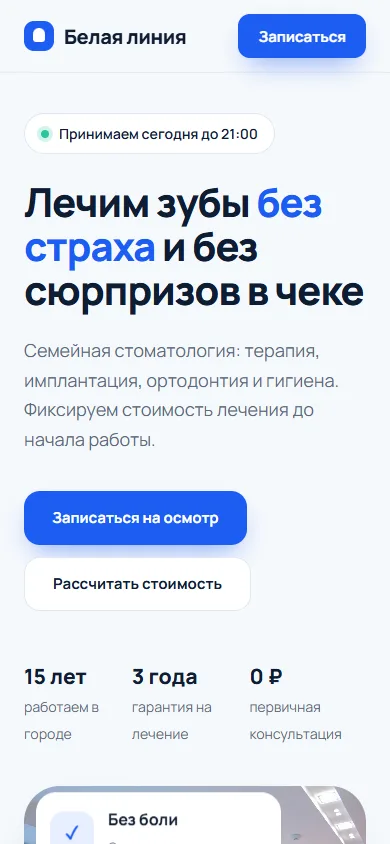
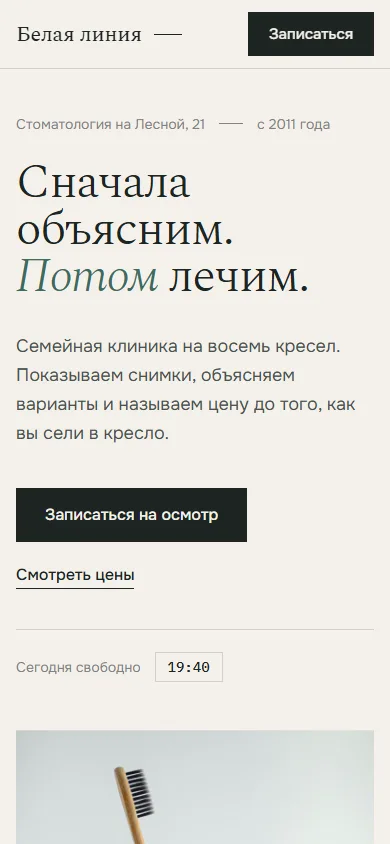
Websites section: coverflow instead of grid; refresh dental concept

diff --git a/src/components/SitesShowcase.tsx b/src/components/SitesShowcase.tsx
@@ -1,9 +1,28 @@
+import { useRef, useState, type CSSProperties, type KeyboardEvent, type PointerEvent } from 'react';
 import { siteRepo, sites, siteUrl } from '../data/sites';
 import { useLang } from '../i18n';
 import { Icon } from './Icon';
 
+/** Coverflow: the chosen site sits in the centre, neighbours fan out in 3D. */
 export function SitesShowcase() {
   const { t } = useLang();
+  const [i, setI] = useState(Math.floor(sites.length / 2) - 1);
+  const swipeX = useRef<number | null>(null);
+  const go = (k: number) => setI(Math.min(sites.length - 1, Math.max(0, k)));
+  const s = sites[i];
+
+  const onKey = (e: KeyboardEvent) => {
+    if (e.key === 'ArrowLeft') { e.preventDefault(); go(i - 1); }
+    if (e.key === 'ArrowRight') { e.preventDefault(); go(i + 1); }
+  };
+  const onDown = (e: PointerEvent) => { swipeX.current = e.clientX; };
+  const onUp = (e: PointerEvent) => {
+    if (swipeX.current === null) return;
+    const dx = e.clientX - swipeX.current;
+    swipeX.current = null;
+    if (Math.abs(dx) > 40) go(i + (dx < 0 ? 1 : -1));
+  };
+
   return (
     <section className="section wrap" id="sites">
       <div className="section-head"><h2>{t({ ru: 'Сайты', en: 'Websites' })}</h2></div>
@@ -13,30 +32,50 @@ export function SitesShowcase() {
           en: 'Concepts for fictional businesses, each with its own style, fonts and motion. All responsive — open them and see for yourself.',
         })}
       </p>
-      <div className="sites">
-        {sites.map(s => (
-          <article className="site" key={s.id}>
-            <a className="site-cover" href={siteUrl(s.id)} target="_blank" rel="noreferrer" aria-label={`${s.name} — ${t({ ru: 'открыть сайт', en: 'open website' })}`}>
-              <img src={`./sites/${s.id}.webp`} alt="" loading="lazy" />
-              <span className="site-phone"><img src={`./sites/${s.id}-m.webp`} alt="" loading="lazy" /></span>
-            </a>
-            <div className="site-info">
-              <div className="site-title">
-                <h3>{s.name}</h3>
-                <span className="mono muted">{t(s.kind)} · {t({ ru: 'концепт', en: 'concept' })}</span>
-              </div>
-              <p className="muted">{t(s.about)}</p>
-              <div className="site-meta mono">
-                <span className="swatches">{s.palette.map(c => <i key={c} style={{ background: c }} title={c} />)}</span>
-                <span>{s.fonts}</span>
-              </div>
-              <div className="work-links">
-                <a className="link" href={siteUrl(s.id)} target="_blank" rel="noreferrer">{t({ ru: 'Открыть сайт', en: 'Open website' })} <Icon name="arrowUpRight" size={14} /></a>
-                <a className="link" href={siteRepo(s.id)} target="_blank" rel="noreferrer">{t({ ru: 'Код', en: 'Source' })} <Icon name="arrowUpRight" size={14} /></a>
-              </div>
-            </div>
-          </article>
-        ))}
+
+      <div className="flow" tabIndex={0} onKeyDown={onKey} onPointerDown={onDown} onPointerUp={onUp} onPointerCancel={() => { swipeX.current = null; }}
+        aria-roledescription={t({ ru: 'карусель', en: 'carousel' })} aria-label={t({ ru: 'Сайты', en: 'Websites' })}>
+        <div className="flow-stage">
+          {sites.map((x, k) => {
+            const d = k - i;
+            const style = { '--d': d, '--a': Math.abs(d) } as CSSProperties;
+            return d === 0 ? (
+              <a key={x.id} className="flow-card on" style={style} href={siteUrl(x.id)} target="_blank" rel="noreferrer" draggable={false}
+                aria-label={`${x.name} — ${t({ ru: 'открыть сайт', en: 'open website' })}`}>
+                <img src={`./sites/${x.id}.webp`} alt="" draggable={false} />
+                <span className="flow-phone"><img src={`./sites/${x.id}-m.webp`} alt="" draggable={false} /></span>
+              </a>
+            ) : (
+              <button key={x.id} className="flow-card" style={style} onClick={() => go(k)} aria-label={x.name} tabIndex={-1} hidden={Math.abs(d) > 3}>
+                <img src={`./sites/${x.id}.webp`} alt="" loading="lazy" draggable={false} />
+              </button>
+            );
+          })}
+        </div>
+
+        <div className="flow-info" key={s.id}>
+          <div className="site-title">
+            <h3>{s.name}</h3>
+            <span className="mono muted">{t(s.kind)} · {t({ ru: 'концепт', en: 'concept' })}</span>
+          </div>
+          <p className="muted">{t(s.about)}</p>
+          <div className="site-meta mono">
+            <span className="swatches">{s.palette.map(c => <i key={c} style={{ background: c }} title={c} />)}</span>
+            <span>{s.fonts}</span>
+          </div>
+          <div className="work-links">
+            <a className="link" href={siteUrl(s.id)} target="_blank" rel="noreferrer">{t({ ru: 'Открыть сайт', en: 'Open website' })} <Icon name="arrowUpRight" size={14} /></a>
+            <a className="link" href={siteRepo(s.id)} target="_blank" rel="noreferrer">{t({ ru: 'Код', en: 'Source' })} <Icon name="arrowUpRight" size={14} /></a>
+          </div>
+        </div>
+
+        <div className="flow-nav">
+          <button onClick={() => go(i - 1)} disabled={i === 0} aria-label={t({ ru: 'Предыдущий', en: 'Previous' })}>←</button>
+          <div className="flow-dots">
+            {sites.map((x, k) => <button key={x.id} className={k === i ? 'on' : ''} onClick={() => go(k)} aria-label={x.name} />)}
+          </div>
+          <button onClick={() => go(i + 1)} disabled={i === sites.length - 1} aria-label={t({ ru: 'Следующий', en: 'Next' })}>→</button>
+        </div>
       </div>
     </section>
   );

diff --git a/src/styles.css b/src/styles.css
@@ -121,20 +121,34 @@ picture { display: contents; }
 
 /* ---------- concept websites ---------- */
 .sites-lead { margin: 16px 0 0; }
-.sites { display: grid; grid-template-columns: repeat(3, 1fr); gap: 48px 32px; padding-top: 40px; }
-.site-cover { position: relative; display: block; aspect-ratio: 16 / 10; margin-bottom: 26px; border: 1px solid var(--line); border-radius: 8px; overflow: visible; background: var(--panel); transition: border-color .15s; }
-.site-cover:hover { border-color: #fff; }
-.site-cover > img { width: 100%; height: 100%; object-fit: cover; object-position: top; border-radius: 7px; }
-.site-phone { position: absolute; right: 14px; bottom: -18px; width: 24%; aspect-ratio: 390 / 844; padding: 4px; border-radius: 14px; background: #000; border: 1px solid var(--line-strong); box-shadow: 0 16px 32px rgba(0, 0, 0, .6); transition: transform .3s; }
-.site-phone img { width: 100%; height: 100%; object-fit: cover; object-position: top; border-radius: 10px; }
-.site-cover:hover .site-phone { transform: translateY(-6px); }
+/* coverflow */
+.flow { position: relative; padding-top: 40px; outline: none; touch-action: pan-y; user-select: none; }
+.flow { --card: min(560px, 70vw); --step: calc(var(--card) * .34); }
+.flow-stage { position: relative; height: calc(var(--card) * .625 + 40px); perspective: 1400px; margin-inline: calc(50% - 50vw); overflow: hidden; mask-image: linear-gradient(90deg, transparent, #000 12%, #000 88%, transparent); }
+.flow-card { position: absolute; top: 14px; left: 50%; width: var(--card); aspect-ratio: 16 / 10; padding: 0; border: 1px solid var(--line-strong); border-radius: 10px; background: #000; cursor: pointer; transform: translateX(calc(-50% + var(--d) * var(--step))) translateZ(calc(var(--a) * -220px)) rotateY(calc(var(--d) * -38deg)); z-index: calc(10 - var(--a)); filter: brightness(calc(1 - var(--a) * .25)); transition: transform .6s cubic-bezier(.2, .8, .2, 1), filter .6s, border-color .15s; box-shadow: 0 30px 60px rgba(0, 0, 0, .7); }
+.flow-card > img { width: 100%; height: 100%; object-fit: cover; object-position: top; border-radius: 9px; pointer-events: none; }
+.flow-card.on:hover { border-color: #fff; }
+.flow-phone { position: absolute; right: 14px; bottom: -14px; width: 22%; aspect-ratio: 390 / 844; padding: 3px; border-radius: 13px; background: #000; border: 1px solid var(--line-strong); box-shadow: 0 16px 32px rgba(0, 0, 0, .6); transition: transform .3s; }
+.flow-phone img { width: 100%; height: 100%; object-fit: cover; object-position: top; border-radius: 10px; }
+.flow-card.on:hover .flow-phone { transform: translateY(-6px); }
+.flow-info { max-width: 560px; margin: 26px auto 0; text-align: center; animation: flow-in .4s ease both; }
+.flow-info .site-title { align-items: center; }
+.flow-info .site-meta, .flow-info .work-links { justify-content: center; }
+.flow-info .work-links { margin-top: 18px; font-size: 14px; }
+@keyframes flow-in { from { opacity: 0; transform: translateY(6px); } }
+.flow-nav { display: flex; align-items: center; justify-content: center; gap: 18px; margin-top: 28px; }
+.flow-nav > button { width: 42px; height: 42px; border-radius: 50%; border: 1px solid var(--line-strong); transition: border-color .15s, opacity .15s; }
+.flow-nav > button:hover:not(:disabled) { border-color: #fff; }
+.flow-nav > button:disabled { opacity: .3; cursor: default; }
+.flow-dots { display: flex; gap: 8px; }
+.flow-dots button { width: 7px; height: 7px; padding: 0; border-radius: 50%; background: #333; transition: background .2s, width .2s; }
+.flow-dots button.on { width: 22px; border-radius: 4px; background: #fff; }
 .site-title { display: flex; flex-direction: column; gap: 2px; margin-bottom: 10px; }
 .site-title h3 { font-size: 22px; font-weight: 600; letter-spacing: -0.02em; }
-.site-info > .muted { font-size: 14.5px; min-height: 46px; }
+.flow-info > .muted { font-size: 14.5px; }
 .site-meta { display: flex; align-items: center; gap: 12px; margin-top: 14px; font-size: 12px; }
 .swatches { display: flex; gap: 4px; }
 .swatches i { width: 14px; height: 14px; border-radius: 3px; border: 1px solid var(--line-strong); }
-.site .work-links { margin-top: 18px; font-size: 14px; }
 
 /* pinned showcase: the section stays on screen while scrolling moves the projects sideways */
 .work-pin { position: relative; margin-top: 140px; }
@@ -227,7 +241,6 @@ picture { display: contents; }
 @media (max-width: 960px) {
   .work, .work.vfx, .about { grid-template-columns: 1fr; gap: 32px; }
   .work-text { order: -1; }
-  .sites { grid-template-columns: 1fr 1fr; }
   .facts { grid-template-columns: 1fr 1fr; }
   .facts > div:nth-child(3) { padding-left: 0; border-left: 0; }
   .service { grid-template-columns: 1fr 1fr; }
@@ -258,6 +271,7 @@ picture { display: contents; }
   .pricing { flex-direction: column; align-items: flex-start; }
   .spec > div { grid-template-columns: 100px 1fr; }
   .contact { padding-top: 112px; }
+  .flow { --card: 82vw; --step: 30vw; }
   .contact-list a { grid-template-columns: 1fr auto; font-size: 16px; }
   .contact-list a .mono { display: none; }
   .lb-stage { padding: 16px; }

diff --git a/src/data/sites.ts b/src/data/sites.ts
@@ -42,9 +42,9 @@ export const sites: Site[] = [
     id: 'dental',
     name: 'Белая линия',
     kind: { ru: 'Стоматология', en: 'Dental clinic' },
-    about: { ru: 'Чистый сайт, которому доверяют: услуги, врачи и калькулятор стоимости.', en: 'A clean, trustworthy site: services, doctors and a live price calculator.' },
-    fonts: 'Manrope',
-    palette: ['#f6f9fc', '#1d5cf2', '#2bc4a0'],
+    about: { ru: 'Спокойный «бумажный» сайт: прайс со сметой-чеком, врачи с днями приёма и запись на свободное время.', en: 'A calm, paper-like site: a price list that builds a receipt, doctors’ schedules and booking into free slots.' },
+    fonts: 'Spectral / Onest',
+    palette: ['#f4f1eb', '#1d2422', '#3d6b5e'],
   },
   {
     id: 'autoservice',
